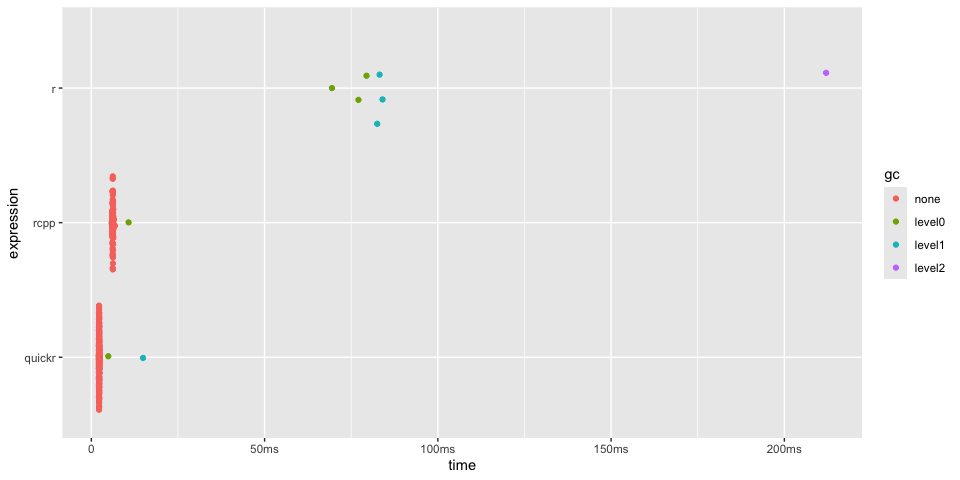
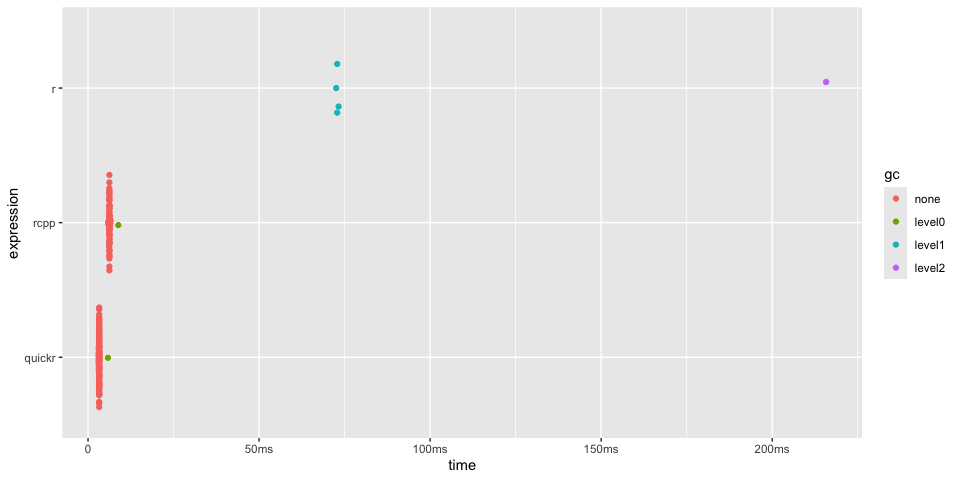
Docs: flang install note; normalize length() dims

diff --git a/README.md b/README.md
@@ -137,9 +137,9 @@ timings
 #> # A tibble: 3 × 6
 #>   expression      min   median `itr/sec` mem_alloc `gc/sec`
 #>   <bch:expr> <bch:tm> <bch:tm>     <dbl> <bch:byt>    <dbl>
-#> 1 r             475ms 478.22ms      2.09     782KB     3.14
-#> 2 quickr        915µs   1.06ms    943.       782KB    21.3 
-#> 3 c             915µs   1.08ms    921.       782KB    20.2
+#> 1 r          473.88ms 473.88ms      2.11     782KB     8.44
+#> 2 quickr       2.65ms   2.83ms    353.       782KB     6.71
+#> 3 c          918.52µs   1.06ms    934.       782KB    18.8
 plot(timings) + bench::scale_x_bench_time(base = NULL)
 ```
 
@@ -282,8 +282,8 @@ timings
 #> # A tibble: 2 × 6
 #>   expression         min   median `itr/sec` mem_alloc `gc/sec`
 #>   <bch:expr>    <bch:tm> <bch:tm>     <dbl> <bch:byt>    <dbl>
-#> 1 slow_viterbi   61.21µs  72.04µs    13115.    1.59KB     41.0
-#> 2 quick_viterbi   1.72µs   1.97µs   506574.        0B      0
+#> 1 slow_viterbi   62.57µs     72µs    13163.    1.59KB     36.5
+#> 2 quick_viterbi   1.48µs   1.64µs   584585.        0B      0
 plot(timings)
 ```
 
@@ -367,8 +367,8 @@ summary(timings, relative = TRUE)
 #> # A tibble: 2 × 6
 #>   expression           min median `itr/sec` mem_alloc `gc/sec`
 #>   <bch:expr>         <dbl>  <dbl>     <dbl>     <dbl>    <dbl>
-#> 1 diffuse_heat        90.5   87.1       1        514.      Inf
-#> 2 quick_diffuse_heat   1      1        86.9        1       NaN
+#> 1 diffuse_heat        120.   113.        1       514.      Inf
+#> 2 quick_diffuse_heat    1      1       102.        1       NaN
 plot(timings)
 ```
 
@@ -414,9 +414,9 @@ timings
 #> # A tibble: 3 × 6
 #>   expression      min   median `itr/sec` mem_alloc `gc/sec`
 #>   <bch:expr> <bch:tm> <bch:tm>     <dbl> <bch:byt>    <dbl>
-#> 1 r           69.45ms   82.5ms      10.2  124.24MB    29.1 
-#> 2 rcpp         5.87ms   6.19ms     160.     4.45MB     1.98
-#> 3 quickr       2.15ms   2.24ms     431.   781.35KB     3.99
+#> 1 r           72.55ms  72.84ms      9.86  124.24MB    19.7 
+#> 2 rcpp         5.95ms   6.24ms    159.      4.44MB     1.99
+#> 3 quickr       3.15ms   3.25ms    307.    781.35KB     1.99
 
 timings$expression <- factor(names(timings$expression), rev(names(timings$expression)))
 plot(timings) + bench::scale_x_bench_time(base = NULL)
@@ -467,6 +467,13 @@ On macOS:
   # curl -LO https://mac.r-project.org/tools/gfortran-12.2-universal.pkg # R 4.4
   curl -LO https://mac.r-project.org/tools/gfortran-14.2-universal.pkg   # R 4.5
   sudo installer -pkg gfortran-12.2-universal.pkg -target /
+  ```
+
+- Optional: install `flang-new` via Homebrew (used by quickr on macOS
+  when available):
+
+  ``` zsh
+  brew install flang
   ```
 
 On Windows:

diff --git a/NEWS.md b/NEWS.md
@@ -1,5 +1,9 @@
 # quickr (development version)
 
+- On macOS, quickr will use LLVM flang (`flang-new`) for compilation when
+  available (e.g. `brew install flang`). This is optional and can be disabled
+  with `options(quickr.prefer_flang = FALSE)`.
+
 - Added nested compilation scopes with local declaration emission, enabling
   block-scoped temporaries (Fortran 2008 `block ... end block`) and local
   closures (lowered to internal procedures under `contains`), including `sapply()`
